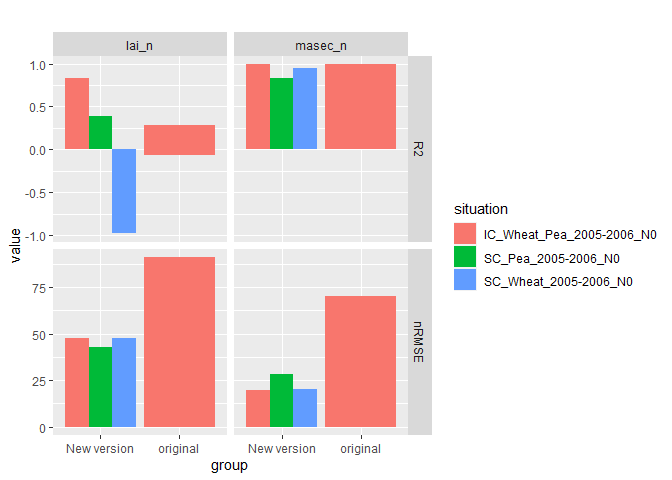
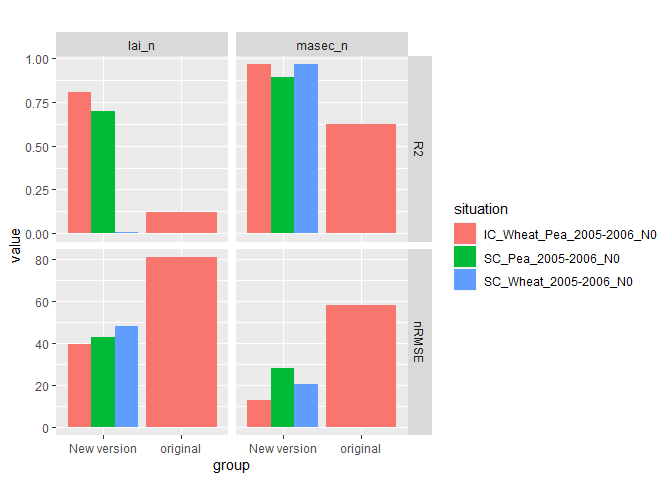
Update README.md

diff --git a/README.md b/README.md
@@ -347,25 +347,21 @@ Here is an application of summary statistics for the 3 situations:
 ``` r
 summary(sim, obs= obs, all_situations = FALSE)
 #> ! Two columns have the same name with different typographies of the variable name : qnplanteTwo columns have the same name with different typographies of the variable name : qnplante_sd
-#> # A tibble: 8 x 41
-#> # Groups:   variable [2]
-#>   group situation variable `paste(.data$Do~ n_obs mean_obs mean_sim r_means
-#>   <chr> <chr>     <chr>    <chr>            <int>    <dbl>    <dbl>   <dbl>
-#> 1 Vers~ IC_Wheat~ lai_n    Associated : poi     4    0.86     0.701    81.5
-#> 2 Vers~ IC_Wheat~ lai_n    Principal : ble      4    0.665    0.527    79.2
-#> 3 Vers~ IC_Wheat~ masec_n  Associated : poi     5    2.98     2.78     93.1
-#> 4 Vers~ IC_Wheat~ masec_n  Principal : ble      5    3.92     3.82     97.5
-#> 5 Vers~ SC_Pea_2~ lai_n    <NA>                 3    2.62     1.74     66.3
-#> 6 Vers~ SC_Pea_2~ masec_n  <NA>                 4    5.45     4.38     80.4
-#> 7 Vers~ SC_Wheat~ lai_n    <NA>                 3    1.27     1.40    110. 
-#> 8 Vers~ SC_Wheat~ masec_n  <NA>                 4    5.39     6.02    112. 
-#> # ... with 33 more variables: sd_obs <dbl>, sd_sim <dbl>, CV_obs <dbl>,
-#> #   CV_sim <dbl>, R2 <dbl>, SS_res <dbl>, Inter <dbl>, Slope <dbl>, RMSE <dbl>,
-#> #   RMSEs <dbl>, RMSEu <dbl>, nRMSE <dbl>, rRMSE <dbl>, rRMSEs <dbl>,
-#> #   rRMSEu <dbl>, pRMSEs <dbl>, pRMSEu <dbl>, SDSD <dbl>, LCS <dbl>,
-#> #   rbias <dbl>, rSDSD <dbl>, rLCS <dbl>, MAE <dbl>, FVU <dbl>, MSE <dbl>,
-#> #   EF <dbl>, Bias <dbl>, ABS <dbl>, MAPE <dbl>, RME <dbl>, tSTUD <dbl>,
-#> #   tLimit <dbl>, Decision <chr>
+#> # A tibble: 6 x 40
+#>   group situation variable n_obs mean_obs mean_sim r_means sd_obs sd_sim CV_obs
+#>   <chr> <chr>     <chr>    <int>    <dbl>    <dbl>   <dbl>  <dbl>  <dbl>  <dbl>
+#> 1 Vers~ IC_Wheat~ lai_n        8    0.762    0.614    80.5  0.633  0.551   83.0
+#> 2 Vers~ IC_Wheat~ masec_n     10    3.45     3.30     95.6  1.96   2.13    56.9
+#> 3 Vers~ SC_Pea_2~ lai_n        3    2.62     1.74     66.3  1.51   1.35    57.7
+#> 4 Vers~ SC_Pea_2~ masec_n      4    5.45     4.38     80.4  3.78   3.75    69.4
+#> 5 Vers~ SC_Wheat~ lai_n        3    1.27     1.40    110.   0.440  0.624   34.5
+#> 6 Vers~ SC_Wheat~ masec_n      4    5.39     6.02    112.   3.16   3.96    58.6
+#> # ... with 30 more variables: CV_sim <dbl>, R2 <dbl>, SS_res <dbl>,
+#> #   Inter <dbl>, Slope <dbl>, RMSE <dbl>, RMSEs <dbl>, RMSEu <dbl>,
+#> #   nRMSE <dbl>, rRMSE <dbl>, rRMSEs <dbl>, rRMSEu <dbl>, pRMSEs <dbl>,
+#> #   pRMSEu <dbl>, SDSD <dbl>, LCS <dbl>, rbias <dbl>, rSDSD <dbl>, rLCS <dbl>,
+#> #   MAE <dbl>, FVU <dbl>, MSE <dbl>, EF <dbl>, Bias <dbl>, ABS <dbl>,
+#> #   MAPE <dbl>, RME <dbl>, tSTUD <dbl>, tLimit <dbl>, Decision <chr>
 ```
 
 Note that as for the `plot()` function the `obs` argument is explicitly
@@ -379,25 +375,17 @@ statistical criteria for all situations at once.
 ``` r
 summary(sim, obs= obs, all_situations = TRUE)
 #> ! Two columns have the same name with different typographies of the variable name : qnplanteTwo columns have the same name with different typographies of the variable name : qnplante_sd
-#> # A tibble: 8 x 41
-#> # Groups:   variable [2]
-#>   group situation variable `paste(.data$Do~ n_obs mean_obs mean_sim r_means
-#>   <chr> <chr>     <chr>    <chr>            <int>    <dbl>    <dbl>   <dbl>
-#> 1 1     all_situ~ lai_n    Associated : poi     4    0.86     0.701    81.5
-#> 2 1     all_situ~ lai_n    NA : ble             3    1.27     1.40    110. 
-#> 3 1     all_situ~ lai_n    NA : poi             3    2.62     1.74     66.3
-#> 4 1     all_situ~ lai_n    Principal : ble      4    0.665    0.527    79.2
-#> 5 1     all_situ~ masec_n  Associated : poi     5    2.98     2.78     93.1
-#> 6 1     all_situ~ masec_n  NA : ble             4    5.39     6.02    112. 
-#> 7 1     all_situ~ masec_n  NA : poi             4    5.45     4.38     80.4
-#> 8 1     all_situ~ masec_n  Principal : ble      5    3.92     3.82     97.5
-#> # ... with 33 more variables: sd_obs <dbl>, sd_sim <dbl>, CV_obs <dbl>,
-#> #   CV_sim <dbl>, R2 <dbl>, SS_res <dbl>, Inter <dbl>, Slope <dbl>, RMSE <dbl>,
-#> #   RMSEs <dbl>, RMSEu <dbl>, nRMSE <dbl>, rRMSE <dbl>, rRMSEs <dbl>,
-#> #   rRMSEu <dbl>, pRMSEs <dbl>, pRMSEu <dbl>, SDSD <dbl>, LCS <dbl>,
-#> #   rbias <dbl>, rSDSD <dbl>, rLCS <dbl>, MAE <dbl>, FVU <dbl>, MSE <dbl>,
-#> #   EF <dbl>, Bias <dbl>, ABS <dbl>, MAPE <dbl>, RME <dbl>, tSTUD <dbl>,
-#> #   tLimit <dbl>, Decision <chr>
+#> # A tibble: 2 x 40
+#>   group situation variable n_obs mean_obs mean_sim r_means sd_obs sd_sim CV_obs
+#>   <chr> <chr>     <chr>    <int>    <dbl>    <dbl>   <dbl>  <dbl>  <dbl>  <dbl>
+#> 1 Vers~ all_situ~ lai_n       14     1.27     1.02    80.6   1.09  0.870   85.4
+#> 2 Vers~ all_situ~ masec_n     18     4.33     4.14    95.7   2.71  2.98    62.6
+#> # ... with 30 more variables: CV_sim <dbl>, R2 <dbl>, SS_res <dbl>,
+#> #   Inter <dbl>, Slope <dbl>, RMSE <dbl>, RMSEs <dbl>, RMSEu <dbl>,
+#> #   nRMSE <dbl>, rRMSE <dbl>, rRMSEs <dbl>, rRMSEu <dbl>, pRMSEs <dbl>,
+#> #   pRMSEu <dbl>, SDSD <dbl>, LCS <dbl>, rbias <dbl>, rSDSD <dbl>, rLCS <dbl>,
+#> #   MAE <dbl>, FVU <dbl>, MSE <dbl>, EF <dbl>, Bias <dbl>, ABS <dbl>,
+#> #   MAPE <dbl>, RME <dbl>, tSTUD <dbl>, tLimit <dbl>, Decision <chr>
 ```
 
 #### 2.2.1 Several groups
@@ -409,29 +397,19 @@ simulations objects one after the other (as for the `plot()` function).
 summary(sim, sim2, obs= obs)
 #> ! Two columns have the same name with different typographies of the variable name : qnplanteTwo columns have the same name with different typographies of the variable name : qnplante_sd
 #> ! Two columns have the same name with different typographies of the variable name : qnplanteTwo columns have the same name with different typographies of the variable name : qnplante_sd
-#> # A tibble: 12 x 41
-#> # Groups:   variable [2]
-#>    group situation variable `paste(.data$Do~ n_obs mean_obs mean_sim r_means
-#>    <chr> <chr>     <chr>    <chr>            <int>    <dbl>    <dbl>   <dbl>
-#>  1 1     all_situ~ lai_n    Associated : poi     4    0.86     0.701    81.5
-#>  2 1     all_situ~ lai_n    NA : ble             3    1.27     1.40    110. 
-#>  3 1     all_situ~ lai_n    NA : poi             3    2.62     1.74     66.3
-#>  4 1     all_situ~ lai_n    Principal : ble      4    0.665    0.527    79.2
-#>  5 1     all_situ~ masec_n  Associated : poi     5    2.98     2.78     93.1
-#>  6 1     all_situ~ masec_n  NA : ble             4    5.39     6.02    112. 
-#>  7 1     all_situ~ masec_n  NA : poi             4    5.45     4.38     80.4
-#>  8 1     all_situ~ masec_n  Principal : ble      5    3.92     3.82     97.5
-#>  9 2     all_situ~ lai_n    Associated : poi     4    0.86     0.365    42.4
-#> 10 2     all_situ~ lai_n    Principal : ble      4    0.665    0.834   125. 
-#> 11 2     all_situ~ masec_n  Associated : poi     5    2.98     1.12     37.4
-#> 12 2     all_situ~ masec_n  Principal : ble      5    3.92     5.52    141. 
-#> # ... with 33 more variables: sd_obs <dbl>, sd_sim <dbl>, CV_obs <dbl>,
-#> #   CV_sim <dbl>, R2 <dbl>, SS_res <dbl>, Inter <dbl>, Slope <dbl>, RMSE <dbl>,
-#> #   RMSEs <dbl>, RMSEu <dbl>, nRMSE <dbl>, rRMSE <dbl>, rRMSEs <dbl>,
-#> #   rRMSEu <dbl>, pRMSEs <dbl>, pRMSEu <dbl>, SDSD <dbl>, LCS <dbl>,
-#> #   rbias <dbl>, rSDSD <dbl>, rLCS <dbl>, MAE <dbl>, FVU <dbl>, MSE <dbl>,
-#> #   EF <dbl>, Bias <dbl>, ABS <dbl>, MAPE <dbl>, RME <dbl>, tSTUD <dbl>,
-#> #   tLimit <dbl>, Decision <chr>
+#> # A tibble: 4 x 40
+#>   group situation variable n_obs mean_obs mean_sim r_means sd_obs sd_sim CV_obs
+#>   <chr> <chr>     <chr>    <int>    <dbl>    <dbl>   <dbl>  <dbl>  <dbl>  <dbl>
+#> 1 Vers~ all_situ~ lai_n       14    1.27     1.02     80.6  1.09   0.870   85.4
+#> 2 Vers~ all_situ~ masec_n     18    4.33     4.14     95.7  2.71   2.98    62.6
+#> 3 Vers~ all_situ~ lai_n        8    0.762    0.599    78.6  0.633  0.438   83.0
+#> 4 Vers~ all_situ~ masec_n     10    3.45     3.32     96.1  1.96   3.27    56.9
+#> # ... with 30 more variables: CV_sim <dbl>, R2 <dbl>, SS_res <dbl>,
+#> #   Inter <dbl>, Slope <dbl>, RMSE <dbl>, RMSEs <dbl>, RMSEu <dbl>,
+#> #   nRMSE <dbl>, rRMSE <dbl>, rRMSEs <dbl>, rRMSEu <dbl>, pRMSEs <dbl>,
+#> #   pRMSEu <dbl>, SDSD <dbl>, LCS <dbl>, rbias <dbl>, rSDSD <dbl>, rLCS <dbl>,
+#> #   MAE <dbl>, FVU <dbl>, MSE <dbl>, EF <dbl>, Bias <dbl>, ABS <dbl>,
+#> #   MAPE <dbl>, RME <dbl>, tSTUD <dbl>, tLimit <dbl>, Decision <chr>
 ```
 
 We can also name the corresponding group in the plot by naming them
@@ -441,29 +419,19 @@ while passing to the `summary()` function:
 summary("New version"= sim, original= sim2, obs= obs)
 #> ! Two columns have the same name with different typographies of the variable name : qnplanteTwo columns have the same name with different typographies of the variable name : qnplante_sd
 #> ! Two columns have the same name with different typographies of the variable name : qnplanteTwo columns have the same name with different typographies of the variable name : qnplante_sd
-#> # A tibble: 12 x 41
-#> # Groups:   variable [2]
-#>    group situation variable `paste(.data$Do~ n_obs mean_obs mean_sim r_means
-#>    <chr> <chr>     <chr>    <chr>            <int>    <dbl>    <dbl>   <dbl>
-#>  1 1     all_situ~ lai_n    Associated : poi     4    0.86     0.701    81.5
-#>  2 1     all_situ~ lai_n    NA : ble             3    1.27     1.40    110. 
-#>  3 1     all_situ~ lai_n    NA : poi             3    2.62     1.74     66.3
-#>  4 1     all_situ~ lai_n    Principal : ble      4    0.665    0.527    79.2
-#>  5 1     all_situ~ masec_n  Associated : poi     5    2.98     2.78     93.1
-#>  6 1     all_situ~ masec_n  NA : ble             4    5.39     6.02    112. 
-#>  7 1     all_situ~ masec_n  NA : poi             4    5.45     4.38     80.4
-#>  8 1     all_situ~ masec_n  Principal : ble      5    3.92     3.82     97.5
-#>  9 2     all_situ~ lai_n    Associated : poi     4    0.86     0.365    42.4
-#> 10 2     all_situ~ lai_n    Principal : ble      4    0.665    0.834   125. 
-#> 11 2     all_situ~ masec_n  Associated : poi     5    2.98     1.12     37.4
-#> 12 2     all_situ~ masec_n  Principal : ble      5    3.92     5.52    141. 
-#> # ... with 33 more variables: sd_obs <dbl>, sd_sim <dbl>, CV_obs <dbl>,
-#> #   CV_sim <dbl>, R2 <dbl>, SS_res <dbl>, Inter <dbl>, Slope <dbl>, RMSE <dbl>,
-#> #   RMSEs <dbl>, RMSEu <dbl>, nRMSE <dbl>, rRMSE <dbl>, rRMSEs <dbl>,
-#> #   rRMSEu <dbl>, pRMSEs <dbl>, pRMSEu <dbl>, SDSD <dbl>, LCS <dbl>,
-#> #   rbias <dbl>, rSDSD <dbl>, rLCS <dbl>, MAE <dbl>, FVU <dbl>, MSE <dbl>,
-#> #   EF <dbl>, Bias <dbl>, ABS <dbl>, MAPE <dbl>, RME <dbl>, tSTUD <dbl>,
-#> #   tLimit <dbl>, Decision <chr>
+#> # A tibble: 4 x 40
+#>   group situation variable n_obs mean_obs mean_sim r_means sd_obs sd_sim CV_obs
+#>   <chr> <chr>     <chr>    <int>    <dbl>    <dbl>   <dbl>  <dbl>  <dbl>  <dbl>
+#> 1 New ~ all_situ~ lai_n       14    1.27     1.02     80.6  1.09   0.870   85.4
+#> 2 New ~ all_situ~ masec_n     18    4.33     4.14     95.7  2.71   2.98    62.6
+#> 3 orig~ all_situ~ lai_n        8    0.762    0.599    78.6  0.633  0.438   83.0
+#> 4 orig~ all_situ~ masec_n     10    3.45     3.32     96.1  1.96   3.27    56.9
+#> # ... with 30 more variables: CV_sim <dbl>, R2 <dbl>, SS_res <dbl>,
+#> #   Inter <dbl>, Slope <dbl>, RMSE <dbl>, RMSEs <dbl>, RMSEu <dbl>,
+#> #   nRMSE <dbl>, rRMSE <dbl>, rRMSEs <dbl>, rRMSEu <dbl>, pRMSEs <dbl>,
+#> #   pRMSEu <dbl>, SDSD <dbl>, LCS <dbl>, rbias <dbl>, rSDSD <dbl>, rLCS <dbl>,
+#> #   MAE <dbl>, FVU <dbl>, MSE <dbl>, EF <dbl>, Bias <dbl>, ABS <dbl>,
+#> #   MAPE <dbl>, RME <dbl>, tSTUD <dbl>, tLimit <dbl>, Decision <chr>
 ```
 
 By default, all statistics are returned by `summary`, but you can filter
@@ -473,22 +441,13 @@ them using the `stat` argument:
 summary("New version"= sim, original= sim2, obs= obs, stat = c("R2","nRMSE"))
 #> ! Two columns have the same name with different typographies of the variable name : qnplanteTwo columns have the same name with different typographies of the variable name : qnplante_sd
 #> ! Two columns have the same name with different typographies of the variable name : qnplanteTwo columns have the same name with different typographies of the variable name : qnplante_sd
-#> # A tibble: 12 x 5
-#> # Groups:   variable [2]
-#>    group situation      variable      R2 nRMSE
-#>    <chr> <chr>          <chr>      <dbl> <dbl>
-#>  1 1     all_situations lai_n     0.828  32.7 
-#>  2 1     all_situations lai_n    -0.980  47.7 
-#>  3 1     all_situations lai_n     0.389  42.7 
-#>  4 1     all_situations lai_n     0.541  47.6 
-#>  5 1     all_situations masec_n   0.895  19.6 
-#>  6 1     all_situations masec_n   0.946  20.3 
-#>  7 1     all_situations masec_n   0.836  28.1 
-#>  8 1     all_situations masec_n   0.993   4.79
-#>  9 2     all_situations lai_n    -0.0672 90.9 
-#> 10 2     all_situations lai_n     0.287  56.9 
-#> 11 2     all_situations masec_n   0.830  70.0 
-#> 12 2     all_situations masec_n   0.991  48.6
+#> # A tibble: 4 x 5
+#>   group       situation      variable    R2 nRMSE
+#>   <chr>       <chr>          <chr>    <dbl> <dbl>
+#> 1 New version all_situations lai_n    0.692  49.7
+#> 2 New version all_situations masec_n  0.899  21.8
+#> 3 original    all_situations lai_n    0.119  80.6
+#> 4 original    all_situations masec_n  0.624  57.9
 ```
 
 Please read the help from the
@@ -536,7 +495,7 @@ In the previous examples, each line corresponds to a statistical
 criterion. These can also be stacked.
 
 ``` r
-stats= summary("New version"= sim, obs= obs, stat = c("pRMSEs","pRMSEu"), all_situations = FALSE)
+stats= summary("New version"= sim, original= sim2, obs= obs, stat = c("pRMSEs","pRMSEu"), all_situations = FALSE)
 #> ! Two columns have the same name with different typographies of the variable name : qnplanteTwo columns have the same name with different typographies of the variable name : qnplante_sd
 plot(stats, xvar = "situation", title= "Stacked columns", group_bar = "stack")
 ```
